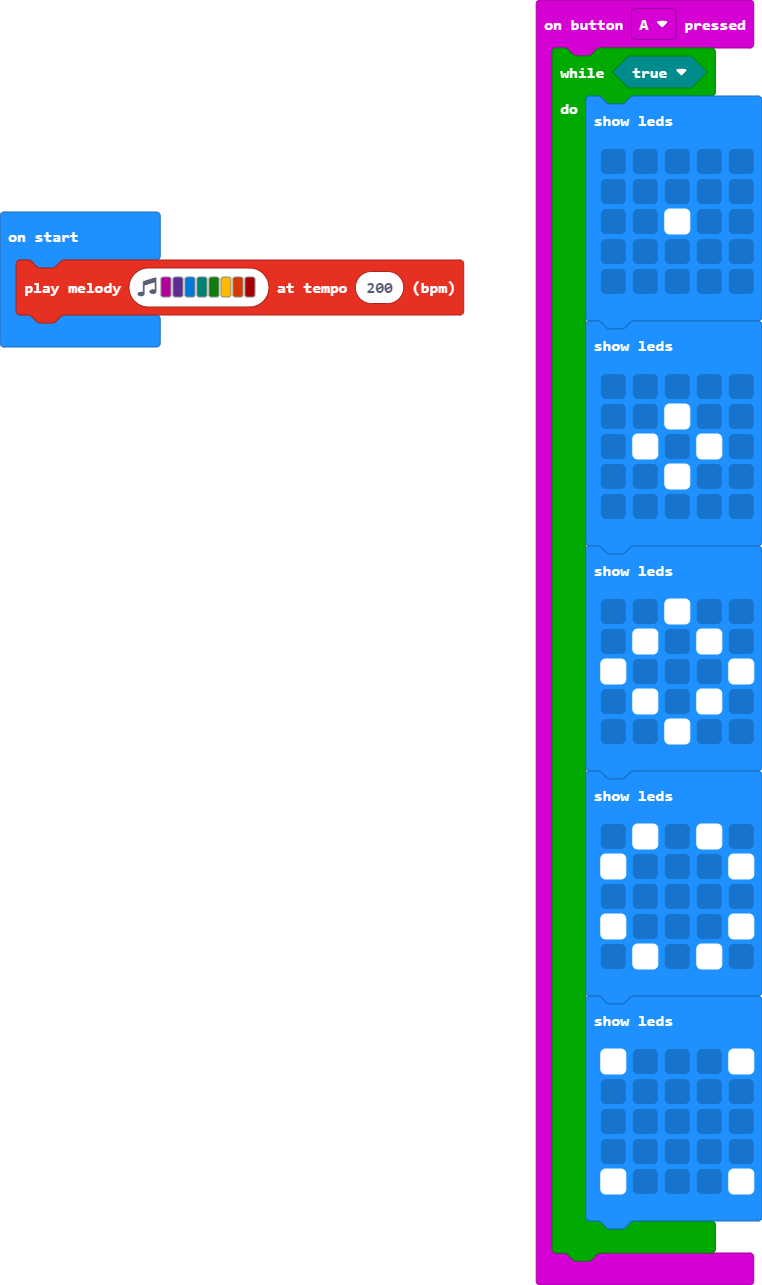
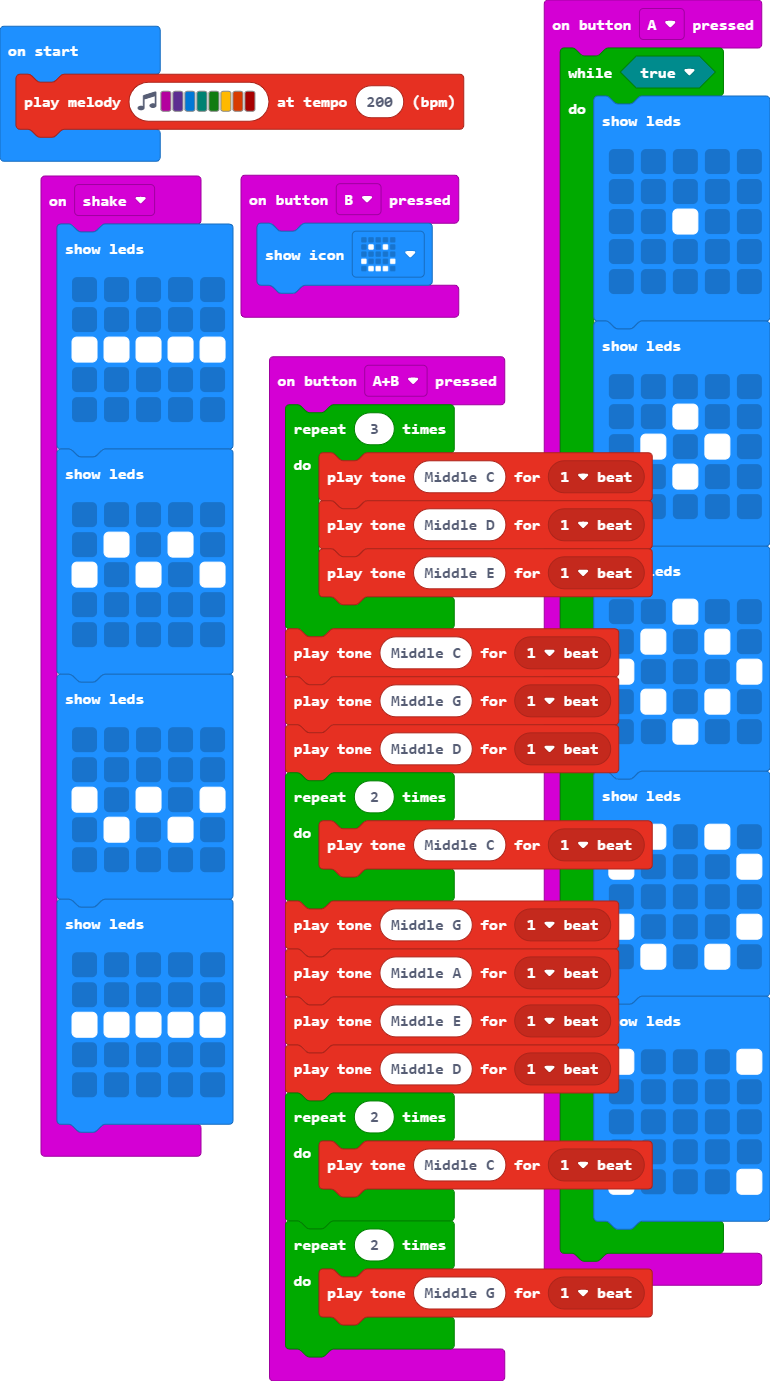
Update main.blocks, main.ts

diff --git a/main.ts b/main.ts
@@ -37,4 +37,60 @@ input.onButtonPressed(Button.A, function () {
             `)
     }
 })
+input.onButtonPressed(Button.AB, function () {
+    for (let index = 0; index < 3; index++) {
+        music.playTone(262, music.beat(BeatFraction.Whole))
+        music.playTone(294, music.beat(BeatFraction.Whole))
+        music.playTone(330, music.beat(BeatFraction.Whole))
+    }
+    music.playTone(262, music.beat(BeatFraction.Whole))
+    music.playTone(392, music.beat(BeatFraction.Whole))
+    music.playTone(294, music.beat(BeatFraction.Whole))
+    for (let index = 0; index < 2; index++) {
+        music.playTone(262, music.beat(BeatFraction.Whole))
+    }
+    music.playTone(392, music.beat(BeatFraction.Whole))
+    music.playTone(440, music.beat(BeatFraction.Whole))
+    music.playTone(330, music.beat(BeatFraction.Whole))
+    music.playTone(294, music.beat(BeatFraction.Whole))
+    for (let index = 0; index < 2; index++) {
+        music.playTone(262, music.beat(BeatFraction.Whole))
+    }
+    for (let index = 0; index < 2; index++) {
+        music.playTone(392, music.beat(BeatFraction.Whole))
+    }
+})
+input.onButtonPressed(Button.B, function () {
+    basic.showIcon(IconNames.Happy)
+})
+input.onGesture(Gesture.Shake, function () {
+    basic.showLeds(`
+        . . . . .
+        . . . . .
+        # # # # #
+        . . . . .
+        . . . . .
+        `)
+    basic.showLeds(`
+        . . . . .
+        . # . # .
+        # . # . #
+        . . . . .
+        . . . . .
+        `)
+    basic.showLeds(`
+        . . . . .
+        . . . . .
+        # . # . #
+        . # . # .
+        . . . . .
+        `)
+    basic.showLeds(`
+        . . . . .
+        . . . . .
+        # # # # #
+        . . . . .
+        . . . . .
+        `)
+})
 music.playMelody("C D E F G A B C5 ", 200)
